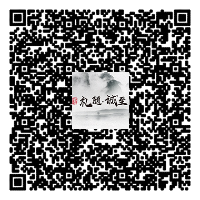
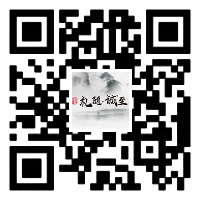
丰田金融

diff --git a/toyota2017_movie/index.html b/toyota2017_movie/index.html
@@ -12,7 +12,7 @@
     <!-- 分享缩略图，必须为绝对路径，且图片链接必须为http协议（由于安卓微信客户端无法获取https的分享图片，仅此处需要强制http协议）-->
     <meta name="wxm:img_url" content="http//wx.bjczxda.com/toyota2017_movie/src/shareLogo.jpg">
     <!-- 分享链接-->
-    <meta name="wxm:link" content="https://open.weixin.qq.com/connect/oauth2/authorize?appid=wx91b9ea7e64becfbb&redirect_uri=http://wx.bjczxda.com/toyota2017_movie/index.html&response_type=code&scope=snsapi_userinfo&state=STATE#wechat_redirect">
+    <meta name="wxm:link" content="http://dwz.cn/6R8Dw4">
     <!-- 在 meta 标签中进行基础分享信息设置 End-->
     <title>跨越人生路，感恩幸福礼</title>
     <link rel="stylesheet" href="css/main.css">
@@ -306,10 +306,10 @@
         </div>
     </div>
 
+    <script type="text/javascript" src="https://cdn.bootcss.com/html2canvas/0.5.0-beta4/html2canvas.min.js"></script>
     <script type="text/javascript" src="js/jquery-1.10.1.min.js"></script>
     <script type="text/javascript" src="js/pace.min.js"></script>
     <script type="text/javascript" src="js/swiper.min.js"></script>
-    <script type="text/javascript" src="https://cdn.bootcss.com/html2canvas/0.5.0-beta4/html2canvas.min.js"></script>
     <script type="text/javascript" src="js/common.js"></script>
     <script type="text/javascript" src="js/data.js"></script>
     <script type="text/javascript" src="js/main.js"></script>

diff --git a/toyota2017_movie/js/main.js b/toyota2017_movie/js/main.js
@@ -24,10 +24,10 @@ var main = {
     collectCount: 0,
     isScreen2Animated: false,
     init: function () {
+        this.requestUserInfo();
         this.initSwiper();
         this.bindUserInfo();
         this.bindClicks();
-        this.requestUserInfo();
     },
     initSwiper: function () {
         this.mainSwiper = new Swiper('.swiper-container', {
@@ -101,7 +101,7 @@ var main = {
         setTimeout(function () { $screen1.find('.content').show();}, 1400);
         setTimeout(function () {
             $screen1.find('.boat').show();
-            $btnDetail.show().addClass(' animated fadeInUp');
+            $btnDetail.show().addClass('animated fadeInUp');
             setTimeout(function () {
                 $btnDetail.removeClass('animated fadeInUp').addClass('animated pulse infinite');
             }, 800);
